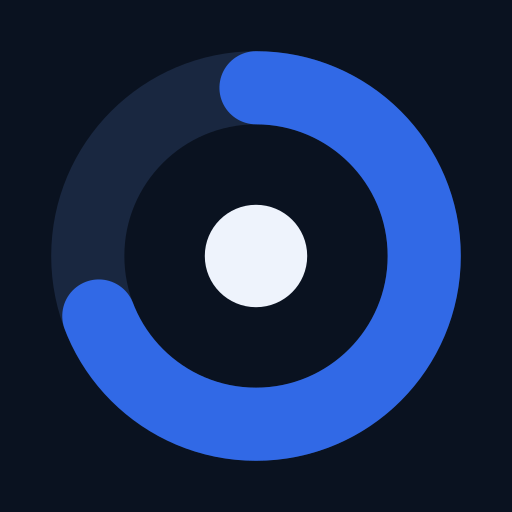
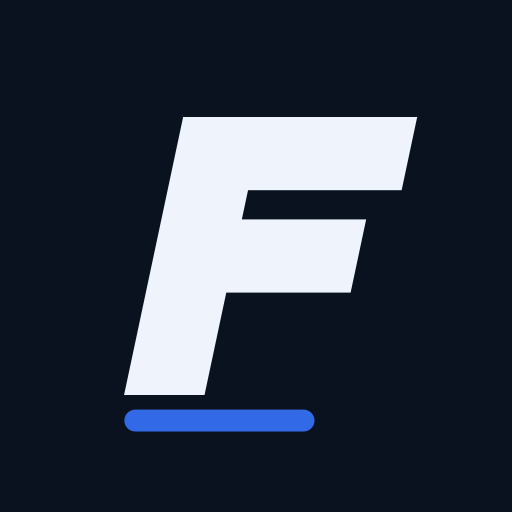
Icono: F clara inclinada con línea azul sobre el azul marino de la app
- Sustituye al aro de progreso; PNG regenerados desde icons/icon.svg (180, 192, 512, maskable al 85 %, favicon 64).
- Test del icono: comprueba el fondo, los brazos de la F con su inclinación y la línea azul.
- sw.js: entreno-v123.

Claude-Session: https://claude.ai/code/session_01MUdD164NwbBYtnUNcvXN8b

diff --git a/sw.js b/sw.js
@@ -1,5 +1,5 @@
 // Sube la versión cuando cambies archivos para que el móvil descargue la nueva copia.
-const CACHE = 'entreno-v122';
+const CACHE = 'entreno-v123';
 const IMG_CACHE = 'entreno-img';   // fotos de ejercicios: no se borra al subir de versión
 const IMG_MAX = 250;               // máximo de fotos guardadas (se van borrando las más antiguas)
 const IMG_HOSTS = ['pump-app.s3.eu-west-2.amazonaws.com'];

diff --git a/tests/e2e.py b/tests/e2e.py
@@ -714,18 +714,24 @@ def la_app_se_llama_forjado(pg):
     assert m["name"] == "Forjado" and m["short_name"] == "Forjado"
 
 @test
-def icono_es_el_aro_grueso_azul_de_la_app(pg):
+def icono_es_la_f_inclinada_sobre_azul_marino(pg):
+    import math
     from PIL import Image
     cerca = lambda a, b: all(abs(x - y) <= 14 for x, y in zip(a, b))
-    FONDO, AZUL, PUNTO, PISTA = (10, 18, 32), (49, 105, 230), (238, 243, 252), (25, 39, 64)   # --bg, --fire, --text, --surface-2
+    FONDO, AZUL, CLARO = (10, 18, 32), (49, 105, 230), (238, 243, 252)   # --bg, --fire, --text
+    inclina = lambda x, y: (x - math.tan(math.radians(12)) * (y - 70), y)  # skewX(-12) alrededor del centro
     for nombre, tam, k in [("apple-touch-icon", 180, 1), ("icon-192", 192, 1), ("icon-512", 512, 1), ("icon-maskable-512", 512, .85)]:
         im = Image.open(os.path.join(ROOT, "icons", nombre + ".png")).convert("RGB")
-        p = lambda x, y: im.getpixel((round(x / 140 * tam), round(y / 140 * tam)))
-        c = lambda v: 70 + (v - 70) * k
+        def p(x, y, f=False):
+            if f: x, y = inclina(x, y)
+            x, y = 70 + (x - 70) * k, 70 + (y - 70) * k
+            return im.getpixel((round(x / 140 * tam), round(y / 140 * tam)))
         assert cerca(p(1, 1), FONDO), f"{nombre}: el fondo es el azul marino de la app, a sangre: {p(1, 1)}"
-        assert cerca(p(70, 70), PUNTO), f"{nombre}: punto claro en el centro: {p(70, 70)}"
-        assert cerca(p(70, c(70 - 46)), AZUL), f"{nombre}: el arco azul empieza arriba: {p(70, c(24))}"
-        assert cerca(p(c(70 - 46), 70), PISTA), f"{nombre}: el tramo sin completar es la pista oscura: {p(c(24), 70)}"
+        assert cerca(p(53, 95, True), CLARO), f"{nombre}: el palo de la F es claro: {p(53, 95, True)}"
+        assert cerca(p(85, 42, True), CLARO), f"{nombre}: el brazo de arriba es claro: {p(85, 42, True)}"
+        assert cerca(p(85, 70, True), CLARO), f"{nombre}: el brazo de en medio es claro: {p(85, 70, True)}"
+        assert cerca(p(85, 56, True), FONDO), f"{nombre}: entre los brazos se ve el fondo: {p(85, 56, True)}"
+        assert cerca(p(60, 115), AZUL), f"{nombre}: la línea azul bajo la F: {p(60, 115)}"
     fav = Image.open(os.path.join(ROOT, "icons", "favicon.png")).convert("RGB")
     assert cerca(fav.getpixel((1, 1)), FONDO), "el favicon también es azul marino"
     m = json.loads(open(os.path.join(ROOT, "manifest.webmanifest")).read())

diff --git a/README.md b/README.md
@@ -23,7 +23,7 @@ La app funciona sin wifi ni datos. El service worker (`sw.js`) guarda el código
 - Las librerías de Firebase se guardan si se puede; si fallan, no impiden instalar (la sincronización solo funciona con conexión).
 - Las fotos de los ejercicios (de un servidor externo) se guardan al verlas por primera vez, hasta 250, en una caché aparte que no se borra al subir de versión. Para poder guardarlas se piden con CORS; si el servidor no lo permite, se muestran igual pero no quedan disponibles sin red.
 - Fuentes autoalojadas: Fraunces y Manrope (licencia SIL OFL 1.1, ver `fonts/`).
-- Iconos en `icons/`: aro grueso de progreso en azul sobre el azul marino de la app (`--bg`), con punto claro en el centro. Fuente en `icons/icon.svg`; los PNG se generan con `rsvg-convert` (el «maskable» con el dibujo al 85 %).
+- Iconos en `icons/`: una «F» clara inclinada con una línea azul debajo, sobre el azul marino de la app (`--bg`). Fuente en `icons/icon.svg`; los PNG se generan con `rsvg-convert` (el «maskable» con el dibujo al 85 %).
 
 ## Funciones
 
